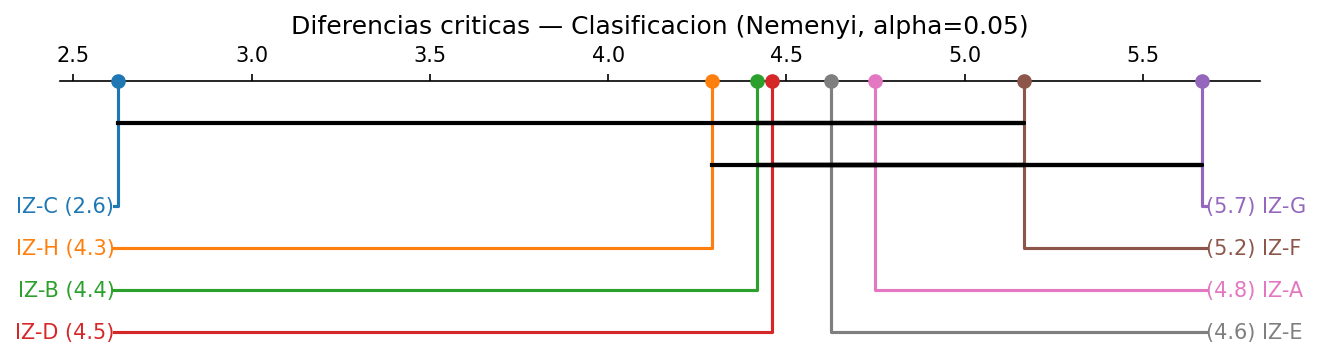
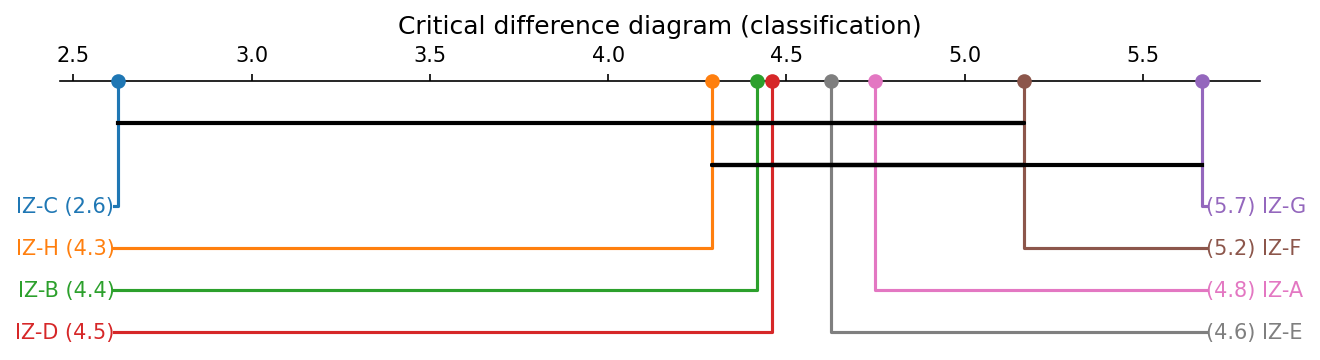
Add effect sizes (epsilon-squared, rank-biserial) and the English RL/CD figures used in the paper

Changed region(s): [[0.2174, 0.0306, 0.7765, 0.1222]]

diff --git a/analysis/plot_rl_boxplots.py b/analysis/plot_rl_boxplots.py
@@ -1,0 +1,46 @@
+#!/usr/bin/env python3
+"""
+Genera los boxplots de RL en ingles para el paper, a partir de
+results/metrics/runs_rl.csv (11 corridas por modelo y problema).
+
+Salida: results/figures/RL/{problema}_en.png  (una caja por modelo IZ-A..H).
+Uso: python plot_rl_boxplots.py
+"""
+
+import os
+import matplotlib
+matplotlib.use("Agg")
+import matplotlib.pyplot as plt
+import pandas as pd
+
+HERE    = os.path.dirname(os.path.abspath(__file__))
+METRICS = os.path.normpath(os.path.join(HERE, "..", "results", "metrics"))
+OUTDIR  = os.path.normpath(os.path.join(HERE, "..", "results", "figures", "RL"))
+os.makedirs(OUTDIR, exist_ok=True)
+
+MODELS = ["IZ-A", "IZ-B", "IZ-C", "IZ-D", "IZ-E", "IZ-F", "IZ-G", "IZ-H"]
+TITLES = {"acrobot": "Acrobot", "cartpole": "CartPole", "mountain": "Mountain Car"}
+
+df = pd.read_csv(os.path.join(METRICS, "runs_rl.csv"))
+
+for problem in ["acrobot", "cartpole", "mountain"]:
+    sub = df[df["problem"] == problem]
+    data = [sub[sub["model"] == m]["fitness"].values for m in MODELS]
+
+    fig, ax = plt.subplots(figsize=(6, 4))
+    bp = ax.boxplot(data, tick_labels=MODELS, patch_artist=True,
+                    showmeans=True, meanline=True)
+    for patch in bp["boxes"]:
+        patch.set_facecolor("#9bc3f0")
+        patch.set_alpha(0.6)
+
+    ax.set_title(TITLES[problem])
+    ax.set_xlabel("Neuron model")
+    ax.set_ylabel("Fitness (mean return)")
+    ax.grid(axis="y", alpha=0.3)
+
+    fig.tight_layout()
+    out = os.path.join(OUTDIR, f"{problem}_en.png")
+    fig.savefig(out, dpi=150)
+    plt.close(fig)
+    print(f"OK  {out}")

diff --git a/analysis/stats.py b/analysis/stats.py
@@ -84,7 +84,7 @@ def analizar_clasificacion():
     # --- Diagrama de diferencias criticas (CD) ---
     plt.figure(figsize=(9, 2.5))
     sp.critical_difference_diagram(ranks, nemenyi)
-    plt.title("Diferencias criticas — Clasificacion (Nemenyi, alpha=0.05)")
+    plt.title("Critical difference diagram (classification)")
     plt.tight_layout()
     cd_path = os.path.join(OUTDIR, "cd_diagram_clasificacion.png")
     plt.savefig(cd_path, dpi=150, bbox_inches="tight")
@@ -113,14 +113,29 @@ def analizar_rl():
         grupos = [sub[sub["model"] == m]["fitness"].values for m in models]
 
         stat, p = ss.kruskal(*grupos)
+        n_total = sum(len(g) for g in grupos)
+        eps2 = stat / (n_total - 1)            # epsilon-cuadrado (tamano de efecto, 0-1)
         sig = "significativo" if p < ALPHA else "no significativo"
-        print(f"\n[{problem}]  Kruskal-Wallis: H = {stat:.4f}  p = {p:.6f}  -> {sig}")
-        resumen.append({"problema": problem, "H": stat, "p_value": p, "resultado": sig})
+        print(f"\n[{problem}]  Kruskal-Wallis: H = {stat:.4f}  p = {p:.6f}  "
+              f"eps2 = {eps2:.3f}  -> {sig}")
+        resumen.append({"problema": problem, "H": stat, "p_value": p,
+                        "epsilon2": eps2, "resultado": sig})
 
         # Dunn post-hoc (correccion Holm) — siempre se guarda como referencia
         dunn = sp.posthoc_dunn(sub, val_col="fitness", group_col="model", p_adjust="holm")
         dunn = dunn.reindex(index=models, columns=models)
         dunn.to_csv(os.path.join(OUTDIR, f"rl_{problem}_dunn.csv"))
+
+        # Tamano de efecto pareado: correlacion rank-biserial  r = 2U/(n1 n2) - 1
+        # (r > 0 indica que el modelo de la fila supera al de la columna)
+        rb = pd.DataFrame(index=models, columns=models, dtype=float)
+        for a in models:
+            xa = sub[sub["model"] == a]["fitness"].values
+            for b in models:
+                xb = sub[sub["model"] == b]["fitness"].values
+                U = ss.mannwhitneyu(xa, xb, alternative="two-sided").statistic
+                rb.loc[a, b] = 2.0 * U / (len(xa) * len(xb)) - 1.0
+        rb.to_csv(os.path.join(OUTDIR, f"rl_{problem}_rankbiserial.csv"))
 
         # Mejor modelo por mediana (mayor = mejor)
         med = sub.groupby("model")["fitness"].median().sort_values(ascending=False)